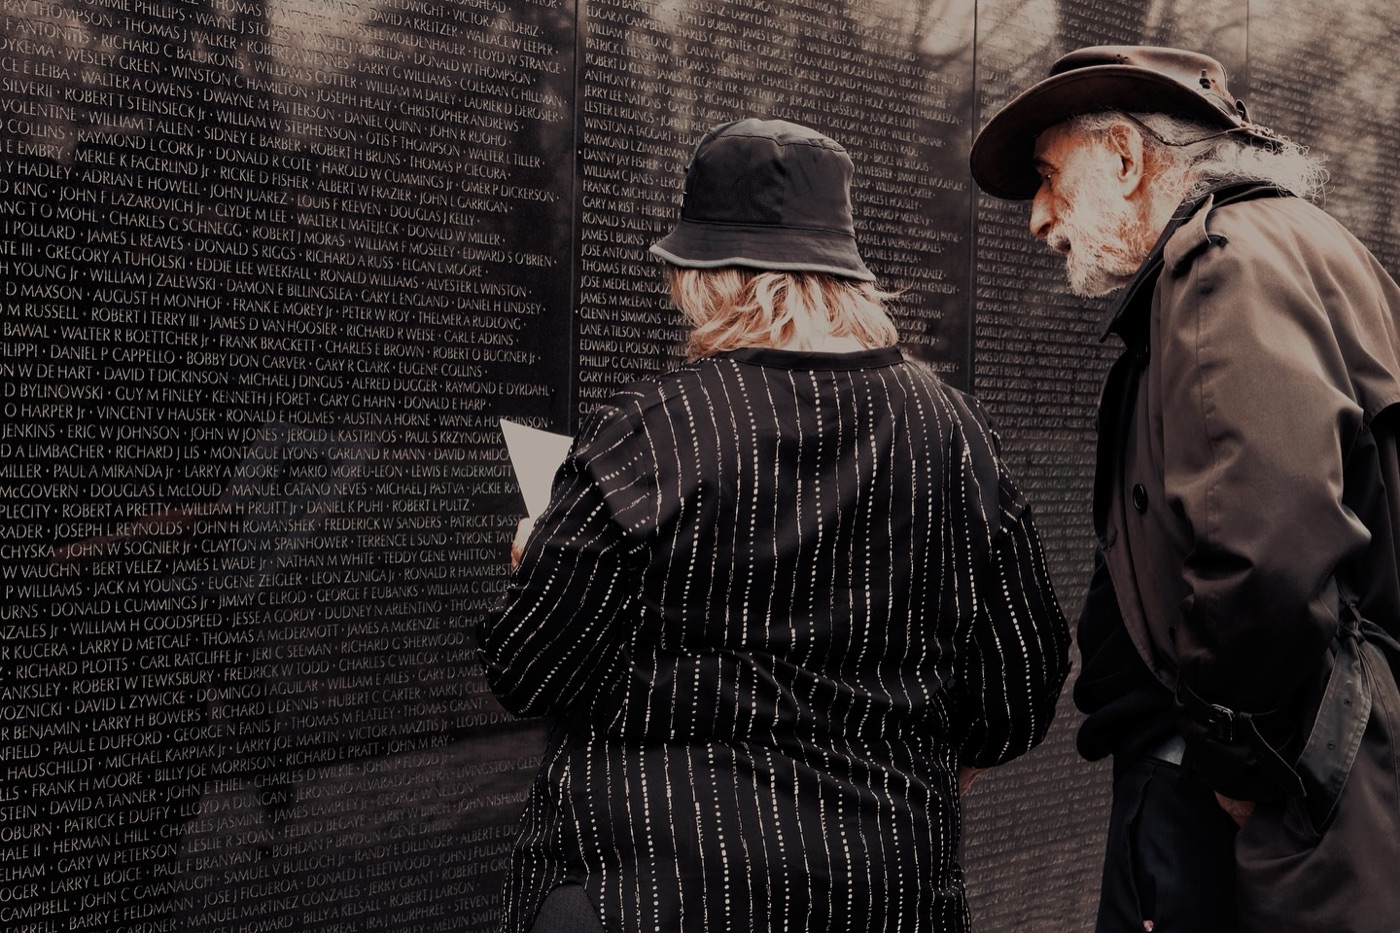
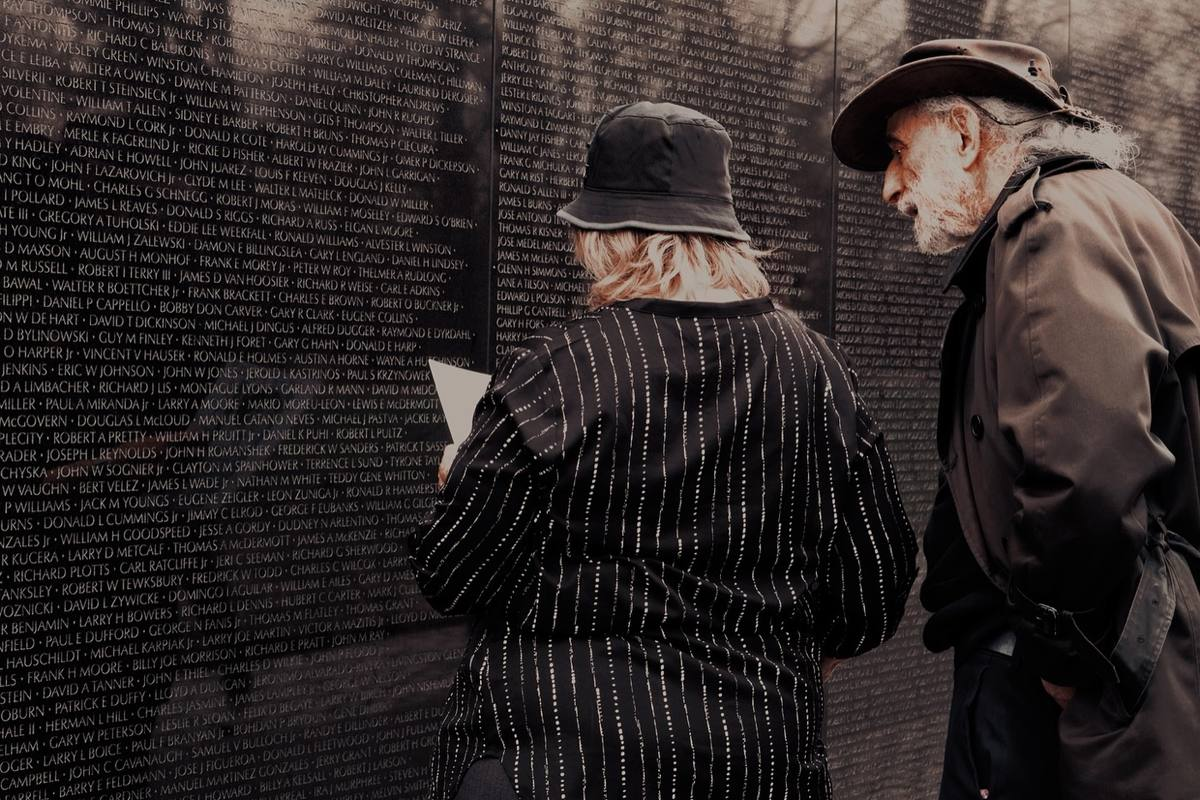
resized the graphics for UX

diff --git a/multimedia.html b/multimedia.html
@@ -8,7 +8,7 @@
   <link rel="preconnect" href="https://fonts.googleapis.com" />
   <link rel="preconnect" href="https://fonts.gstatic.com" crossorigin />
   <link href="https://fonts.googleapis.com/css2?family=Aboreto&family=DM+Sans:wght@400;500;600&display=swap" rel="stylesheet" />
-  <link rel="stylesheet" href="css/style.css?v=44" />
+  <link rel="stylesheet" href="css/style.css?v=46" />
   <link rel="icon" href="assets/Pics/icon.png" type="image/x-icon">
 </head>
 <body>
@@ -39,34 +39,34 @@
         <h2 class="media-heading">Photography</h2>
         <p class="media-sub">A selection of frames from my travels and reporting.</p>
         <div class="photo-grid">
-          <a href="assets/Photos/web/DC-war.jpg" target="_blank" rel="noopener"><img src="assets/Photos/web/DC-war.jpg" alt="Anti-war demonstration, Washington, DC" loading="lazy" /></a>
-          <a href="assets/Photos/web/SouthPhilly-chat.jpg" target="_blank" rel="noopener"><img src="assets/Photos/web/SouthPhilly-chat.jpg" alt="South Philadelphia" loading="lazy" /></a>
-          <a href="assets/Photos/web/SouthPhilly-dog.jpg" target="_blank" rel="noopener"><img src="assets/Photos/web/SouthPhilly-dog.jpg" alt="South Philadelphia" loading="lazy" /></a>
-          <a href="assets/Photos/web/NYC-Pride-GodisGay.jpg" target="_blank" rel="noopener"><img src="assets/Photos/web/NYC-Pride-GodisGay.jpg" alt="NYC Pride" loading="lazy" /></a>
-          <a href="assets/Photos/web/NYC-Pride-girls.jpg" target="_blank" rel="noopener"><img src="assets/Photos/web/NYC-Pride-girls.jpg" alt="NYC Pride" loading="lazy" /></a>
-          <a href="assets/Photos/web/Philly-flag.jpg" target="_blank" rel="noopener"><img src="assets/Photos/web/Philly-flag.jpg" alt="Philadelphia" loading="lazy" /></a>
-          <a href="assets/Photos/web/Philly-manwithflag.jpg" target="_blank" rel="noopener"><img src="assets/Photos/web/Philly-manwithflag.jpg" alt="Philadelphia" loading="lazy" /></a>
-          <a href="assets/Photos/web/SEA-female.jpg" target="_blank" rel="noopener"><img src="assets/Photos/web/SEA-female.jpg" alt="Seattle" loading="lazy" /></a>
-          <a href="assets/Photos/web/Philly-museum.jpg" target="_blank" rel="noopener"><img src="assets/Photos/web/Philly-museum.jpg" alt="Philadelphia Museum of Art" loading="lazy" /></a>
-          <a href="assets/Photos/web/Philly-soccer.jpg" target="_blank" rel="noopener"><img src="assets/Photos/web/Philly-soccer.jpg" alt="Soccer in Philadelphia" loading="lazy" /></a>
-          <a href="assets/Photos/web/NYC-building.jpg" target="_blank" rel="noopener"><img src="assets/Photos/web/NYC-building.jpg" alt="New York City architecture" loading="lazy" /></a>
-          <a href="assets/Photos/web/SouthPhilly-kids.jpg" target="_blank" rel="noopener"><img src="assets/Photos/web/SouthPhilly-kids.jpg" alt="South Philadelphia" loading="lazy" /></a>
-          <a href="assets/Photos/web/SouthPhilly-pumpkin.jpg" target="_blank" rel="noopener"><img src="assets/Photos/web/SouthPhilly-pumpkin.jpg" alt="South Philadelphia" loading="lazy" /></a>
-          <a href="assets/Photos/web/UW-Protest.jpg" target="_blank" rel="noopener"><img src="assets/Photos/web/UW-Protest.jpg" alt="Campus protest, University of Washington" loading="lazy" /></a>
-          <a href="assets/Photos/web/UW-Confront.jpg" target="_blank" rel="noopener"><img src="assets/Photos/web/UW-Confront.jpg" alt="Campus protest, University of Washington" loading="lazy" /></a>
-          <a href="assets/Photos/web/Phiily-trump.jpg" target="_blank" rel="noopener"><img src="assets/Photos/web/Phiily-trump.jpg" alt="Campaign event, Philadelphia" loading="lazy" /></a>
-          <a href="assets/Photos/web/SD-surfing.jpg" target="_blank" rel="noopener"><img src="assets/Photos/web/SD-surfing.jpg" alt="Surfing, San Diego" loading="lazy" /></a>
-          <a href="assets/Photos/web/SD-soccer.jpg" target="_blank" rel="noopener"><img src="assets/Photos/web/SD-soccer.jpg" alt="Soccer, San Diego" loading="lazy" /></a>
-          <a href="assets/Photos/web/SD-birds.jpg" target="_blank" rel="noopener"><img src="assets/Photos/web/SD-birds.jpg" alt="San Diego" loading="lazy" /></a>
-          <a href="assets/Photos/web/SD-kid.jpg" target="_blank" rel="noopener"><img src="assets/Photos/web/SD-kid.jpg" alt="San Diego" loading="lazy" /></a>
-          <a href="assets/Photos/web/SD-music.jpg" target="_blank" rel="noopener"><img src="assets/Photos/web/SD-music.jpg" alt="Live music, San Diego" loading="lazy" /></a>
-          <a href="assets/Photos/web/SD-animal.jpg" target="_blank" rel="noopener"><img src="assets/Photos/web/SD-animal.jpg" alt="San Diego" loading="lazy" /></a>
-          <a href="assets/Photos/web/LA-girl.jpg" target="_blank" rel="noopener"><img src="assets/Photos/web/LA-girl.jpg" alt="Los Angeles" loading="lazy" /></a>
-          <a href="assets/Photos/web/LA-Santa.jpg" target="_blank" rel="noopener"><img src="assets/Photos/web/LA-Santa.jpg" alt="Los Angeles" loading="lazy" /></a>
-          <a href="assets/Photos/web/GMXIAQebwAAqGOW.jpg" target="_blank" rel="noopener"><img src="assets/Photos/web/GMXIAQebwAAqGOW.jpg" alt="Photograph by Levi Jiang" loading="lazy" /></a>
-          <a href="assets/Photos/web/10232024-123-130918.jpg" target="_blank" rel="noopener"><img src="assets/Photos/web/10232024-123-130918.jpg" alt="Photograph by Levi Jiang" loading="lazy" /></a>
-          <a href="assets/Photos/web/2024-05-18-WYC-Spring-SnC-21.jpg" target="_blank" rel="noopener"><img src="assets/Photos/web/2024-05-18-WYC-Spring-SnC-21.jpg" alt="Photograph by Levi Jiang" loading="lazy" /></a>
-          <a href="assets/Photos/web/SEA-Grill.jpg" target="_blank" rel="noopener"><img src="assets/Photos/web/SEA-Grill.jpg" alt="Seattle" loading="lazy" /></a>
+          <a href="assets/Photos/web/DC-war.jpg" target="_blank" rel="noopener"><img src="assets/Photos/web/DC-war.jpg" width="1200" height="800" loading="lazy" decoding="async" alt="Anti-war demonstration, Washington, DC" /></a>
+          <a href="assets/Photos/web/SouthPhilly-chat.jpg" target="_blank" rel="noopener"><img src="assets/Photos/web/SouthPhilly-chat.jpg" width="1200" height="800" loading="lazy" decoding="async" alt="South Philadelphia" /></a>
+          <a href="assets/Photos/web/SouthPhilly-dog.jpg" target="_blank" rel="noopener"><img src="assets/Photos/web/SouthPhilly-dog.jpg" width="800" height="1200" loading="lazy" decoding="async" alt="South Philadelphia" /></a>
+          <a href="assets/Photos/web/NYC-Pride-GodisGay.jpg" target="_blank" rel="noopener"><img src="assets/Photos/web/NYC-Pride-GodisGay.jpg" width="883" height="1200" loading="lazy" decoding="async" alt="NYC Pride" /></a>
+          <a href="assets/Photos/web/NYC-Pride-girls.jpg" target="_blank" rel="noopener"><img src="assets/Photos/web/NYC-Pride-girls.jpg" width="1200" height="800" loading="lazy" decoding="async" alt="NYC Pride" /></a>
+          <a href="assets/Photos/web/Philly-flag.jpg" target="_blank" rel="noopener"><img src="assets/Photos/web/Philly-flag.jpg" width="1200" height="900" loading="lazy" decoding="async" alt="Philadelphia" /></a>
+          <a href="assets/Photos/web/Philly-manwithflag.jpg" target="_blank" rel="noopener"><img src="assets/Photos/web/Philly-manwithflag.jpg" width="1200" height="900" loading="lazy" decoding="async" alt="Philadelphia" /></a>
+          <a href="assets/Photos/web/SEA-female.jpg" target="_blank" rel="noopener"><img src="assets/Photos/web/SEA-female.jpg" width="1200" height="960" loading="lazy" decoding="async" alt="Seattle" /></a>
+          <a href="assets/Photos/web/Philly-museum.jpg" target="_blank" rel="noopener"><img src="assets/Photos/web/Philly-museum.jpg" width="1200" height="900" loading="lazy" decoding="async" alt="Philadelphia Museum of Art" /></a>
+          <a href="assets/Photos/web/Philly-soccer.jpg" target="_blank" rel="noopener"><img src="assets/Photos/web/Philly-soccer.jpg" width="1200" height="800" loading="lazy" decoding="async" alt="Soccer in Philadelphia" /></a>
+          <a href="assets/Photos/web/NYC-building.jpg" target="_blank" rel="noopener"><img src="assets/Photos/web/NYC-building.jpg" width="900" height="1200" loading="lazy" decoding="async" alt="New York City architecture" /></a>
+          <a href="assets/Photos/web/SouthPhilly-kids.jpg" target="_blank" rel="noopener"><img src="assets/Photos/web/SouthPhilly-kids.jpg" width="800" height="1200" loading="lazy" decoding="async" alt="South Philadelphia" /></a>
+          <a href="assets/Photos/web/SouthPhilly-pumpkin.jpg" target="_blank" rel="noopener"><img src="assets/Photos/web/SouthPhilly-pumpkin.jpg" width="1200" height="800" loading="lazy" decoding="async" alt="South Philadelphia" /></a>
+          <a href="assets/Photos/web/UW-Protest.jpg" target="_blank" rel="noopener"><img src="assets/Photos/web/UW-Protest.jpg" width="1200" height="800" loading="lazy" decoding="async" alt="Campus protest, University of Washington" /></a>
+          <a href="assets/Photos/web/UW-Confront.jpg" target="_blank" rel="noopener"><img src="assets/Photos/web/UW-Confront.jpg" width="1200" height="799" loading="lazy" decoding="async" alt="Campus protest, University of Washington" /></a>
+          <a href="assets/Photos/web/Phiily-trump.jpg" target="_blank" rel="noopener"><img src="assets/Photos/web/Phiily-trump.jpg" width="800" height="1200" loading="lazy" decoding="async" alt="Campaign event, Philadelphia" /></a>
+          <a href="assets/Photos/web/SD-surfing.jpg" target="_blank" rel="noopener"><img src="assets/Photos/web/SD-surfing.jpg" width="800" height="1200" loading="lazy" decoding="async" alt="Surfing, San Diego" /></a>
+          <a href="assets/Photos/web/SD-soccer.jpg" target="_blank" rel="noopener"><img src="assets/Photos/web/SD-soccer.jpg" width="800" height="1200" loading="lazy" decoding="async" alt="Soccer, San Diego" /></a>
+          <a href="assets/Photos/web/SD-birds.jpg" target="_blank" rel="noopener"><img src="assets/Photos/web/SD-birds.jpg" width="800" height="1200" loading="lazy" decoding="async" alt="San Diego" /></a>
+          <a href="assets/Photos/web/SD-kid.jpg" target="_blank" rel="noopener"><img src="assets/Photos/web/SD-kid.jpg" width="800" height="1200" loading="lazy" decoding="async" alt="San Diego" /></a>
+          <a href="assets/Photos/web/SD-music.jpg" target="_blank" rel="noopener"><img src="assets/Photos/web/SD-music.jpg" width="800" height="1200" loading="lazy" decoding="async" alt="Live music, San Diego" /></a>
+          <a href="assets/Photos/web/SD-animal.jpg" target="_blank" rel="noopener"><img src="assets/Photos/web/SD-animal.jpg" width="799" height="1200" loading="lazy" decoding="async" alt="San Diego" /></a>
+          <a href="assets/Photos/web/LA-girl.jpg" target="_blank" rel="noopener"><img src="assets/Photos/web/LA-girl.jpg" width="800" height="1200" loading="lazy" decoding="async" alt="Los Angeles" /></a>
+          <a href="assets/Photos/web/LA-Santa.jpg" target="_blank" rel="noopener"><img src="assets/Photos/web/LA-Santa.jpg" width="800" height="1200" loading="lazy" decoding="async" alt="Los Angeles" /></a>
+          <a href="assets/Photos/web/GMXIAQebwAAqGOW.jpg" target="_blank" rel="noopener"><img src="assets/Photos/web/GMXIAQebwAAqGOW.jpg" width="1200" height="800" loading="lazy" decoding="async" alt="Photograph by Levi Jiang" /></a>
+          <a href="assets/Photos/web/10232024-123-130918.jpg" target="_blank" rel="noopener"><img src="assets/Photos/web/10232024-123-130918.jpg" width="1200" height="800" loading="lazy" decoding="async" alt="Photograph by Levi Jiang" /></a>
+          <a href="assets/Photos/web/2024-05-18-WYC-Spring-SnC-21.jpg" target="_blank" rel="noopener"><img src="assets/Photos/web/2024-05-18-WYC-Spring-SnC-21.jpg" width="1200" height="960" loading="lazy" decoding="async" alt="Photograph by Levi Jiang" /></a>
+          <a href="assets/Photos/web/SEA-Grill.jpg" target="_blank" rel="noopener"><img src="assets/Photos/web/SEA-Grill.jpg" width="1200" height="800" loading="lazy" decoding="async" alt="Seattle" /></a>
         </div>
       </div>
     </section>
@@ -77,20 +77,20 @@
         <h2 class="media-heading">Graphics</h2>
         <p class="media-sub">Collage, illustration and infographics.</p>
         <div class="gfx-grid">
-          <a href="assets/Graphics/NJElection.png" target="_blank" rel="noopener"><img src="assets/Graphics/NJElection.png" alt="New Jersey election graphics" /></a>
-          <a href="assets/Graphics/SeattleCrimeMap.png" target="_blank" rel="noopener"><img src="assets/Graphics/SeattleCrimeMap.png" alt="Map of crime across Seattle" /></a>
-          <a href="assets/Graphics/Illo-melons.png" target="_blank" rel="noopener"><img src="assets/Graphics/Illo-melons.png" alt="Melons illustration" /></a>
-          <a href="assets/Graphics/PostCovidEconomy.png" target="_blank" rel="noopener"><img src="assets/Graphics/PostCovidEconomy.png" alt="The post-COVID economy" /></a>
-          <a href="assets/Graphics/SEAvsNY%20Rain.png" target="_blank" rel="noopener"><img src="assets/Graphics/SEAvsNY%20Rain.png" alt="Rainfall compared: Seattle vs. New York" /></a>
-          <a href="assets/Graphics/DayLength.png" target="_blank" rel="noopener"><img src="assets/Graphics/DayLength.png" alt="Day length through the year" /></a>
-          <a href="assets/Graphics/Illo-watermelon.png" target="_blank" rel="noopener"><img src="assets/Graphics/Illo-watermelon.png" alt="Watermelon illustration" /></a>
-          <a href="assets/Graphics/housework-mom.jpg" target="_blank" rel="noopener"><img src="assets/Graphics/housework-mom.jpg" alt="Housework is Valuable - Mom" /></a>
-          <a href="assets/Graphics/Housework.png" target="_blank" rel="noopener"><img src="assets/Graphics/Housework.png" alt="Housework is Valuable graphic" /></a>         
-          <a href="assets/Graphics/CQ.jpg" target="_blank" rel="noopener"><img src="assets/Graphics/CQ.jpg" alt="Citywide Quest graphic" /></a>          
-          <a href="assets/Graphics/Chart-bar.png" target="_blank" rel="noopener"><img src="assets/Graphics/Chart-bar.png" alt="Bar chart" /></a>
-          <a href="assets/Graphics/17vs23Husky.png" target="_blank" rel="noopener"><img src="assets/Graphics/17vs23Husky.png" alt="UW Huskies: 2017 vs. 2023" /></a>
-          <a href="assets/Graphics/17vs23Points.png" target="_blank" rel="noopener"><img src="assets/Graphics/17vs23Points.png" alt="UW Huskies points scored, 2017 vs. 2023" /></a>
-          <a href="assets/Graphics/Chart-amount.png" target="_blank" rel="noopener"><img src="assets/Graphics/Chart-amount.png" alt="Amounts chart" /></a>
+          <a href="assets/Graphics/web/NJElection.png" target="_blank" rel="noopener"><img src="assets/Graphics/web/NJElection.png" width="1284" height="1270" loading="lazy" decoding="async" alt="New Jersey election graphics" /></a>
+          <a href="assets/Graphics/web/SeattleCrimeMap.png" target="_blank" rel="noopener"><img src="assets/Graphics/web/SeattleCrimeMap.png" width="558" height="687" loading="lazy" decoding="async" alt="Map of crime across Seattle" /></a>
+          <a href="assets/Graphics/web/Illo-melons.png" target="_blank" rel="noopener"><img src="assets/Graphics/web/Illo-melons.png" width="900" height="1124" loading="lazy" decoding="async" alt="Melons illustration" /></a>
+          <a href="assets/Graphics/web/PostCovidEconomy.jpg" target="_blank" rel="noopener"><img src="assets/Graphics/web/PostCovidEconomy.jpg" width="1507" height="820" loading="lazy" decoding="async" alt="The post-COVID economy" /></a>
+          <a href="assets/Graphics/web/SEAvsNY%20Rain.jpg" target="_blank" rel="noopener"><img src="assets/Graphics/web/SEAvsNY%20Rain.jpg" width="1636" height="925" loading="lazy" decoding="async" alt="Rainfall compared: Seattle vs. New York" /></a>
+          <a href="assets/Graphics/web/DayLength.jpg" target="_blank" rel="noopener"><img src="assets/Graphics/web/DayLength.jpg" width="1414" height="903" loading="lazy" decoding="async" alt="Day length through the year" /></a>
+          <a href="assets/Graphics/web/Illo-watermelon.png" target="_blank" rel="noopener"><img src="assets/Graphics/web/Illo-watermelon.png" width="900" height="1236" loading="lazy" decoding="async" alt="Watermelon illustration" /></a>
+          <a href="assets/Graphics/web/housework-mom.jpg" target="_blank" rel="noopener"><img src="assets/Graphics/web/housework-mom.jpg" width="900" height="600" loading="lazy" decoding="async" alt="Housework is Valuable - Mom" /></a>
+          <a href="assets/Graphics/web/Housework.png" target="_blank" rel="noopener"><img src="assets/Graphics/web/Housework.png" width="1378" height="1086" loading="lazy" decoding="async" alt="Housework is Valuable graphic" /></a>         
+          <a href="assets/Graphics/web/CQ.jpg" target="_blank" rel="noopener"><img src="assets/Graphics/web/CQ.jpg" width="1800" height="1200" loading="lazy" decoding="async" alt="Citywide Quest graphic" /></a>          
+          <a href="assets/Graphics/web/Chart-bar.png" target="_blank" rel="noopener"><img src="assets/Graphics/web/Chart-bar.png" width="904" height="1048" loading="lazy" decoding="async" alt="Bar chart" /></a>
+          <a href="assets/Graphics/web/17vs23Husky.png" target="_blank" rel="noopener"><img src="assets/Graphics/web/17vs23Husky.png" width="969" height="494" loading="lazy" decoding="async" alt="UW Huskies: 2017 vs. 2023" /></a>
+          <a href="assets/Graphics/web/17vs23Points.png" target="_blank" rel="noopener"><img src="assets/Graphics/web/17vs23Points.png" width="1245" height="781" loading="lazy" decoding="async" alt="UW Huskies points scored, 2017 vs. 2023" /></a>
+          <a href="assets/Graphics/web/Chart-amount.png" target="_blank" rel="noopener"><img src="assets/Graphics/web/Chart-amount.png" width="670" height="1352" loading="lazy" decoding="async" alt="Amounts chart" /></a>
         </div>
       </div>
     </section>

diff --git a/css/style.css b/css/style.css
@@ -242,12 +242,12 @@ h1, h2, h3 { font-weight: 400; line-height: 1.05; }
 
 /* Photography — masonry columns */
 .photo-grid { columns: 4 200px; column-gap: 14px; }
-.photo-grid > * { width: 100%; margin: 0 0 16px; border-radius: 3px; break-inside: avoid; display: block; overflow: hidden; }
-.photo-grid img { width: 100%; display: block; }
+.photo-grid > * { width: 100%; margin: 0 0 16px; border-radius: 3px; break-inside: avoid; display: block; overflow: hidden; background: var(--bg-soft); }
+.photo-grid img { width: 100%; height: auto; display: block; }
 
 /* Graphics — masonry (charts/maps shown in full, never cropped) */
 .gfx-grid { columns: 4; column-gap: 14px; }
-.gfx-grid > * { display: block; break-inside: avoid; margin: 0 0 14px; overflow: hidden; border-radius: 3px; border: 1px solid var(--line); }
+.gfx-grid > * { display: block; break-inside: avoid; margin: 0 0 14px; overflow: hidden; border-radius: 3px; border: 1px solid var(--line); background: var(--bg-soft); }
 .gfx-grid img { width: 100%; height: auto; display: block; }
 @media (max-width: 1000px) { .gfx-grid { columns: 3; } }
 @media (max-width: 720px) { .gfx-grid { columns: 2; } }

diff --git a/data-journalism.html b/data-journalism.html
@@ -8,7 +8,7 @@
   <link rel="preconnect" href="https://fonts.googleapis.com" />
   <link rel="preconnect" href="https://fonts.gstatic.com" crossorigin />
   <link href="https://fonts.googleapis.com/css2?family=Aboreto&family=DM+Sans:wght@400;500;600&display=swap" rel="stylesheet" />
-  <link rel="stylesheet" href="css/style.css?v=44" />
+  <link rel="stylesheet" href="css/style.css?v=46" />
   <link rel="icon" href="assets/Pics/icon.png" type="image/x-icon">
 </head>
 <body>

diff --git a/design-development.html b/design-development.html
@@ -8,7 +8,7 @@
   <link rel="preconnect" href="https://fonts.googleapis.com" />
   <link rel="preconnect" href="https://fonts.gstatic.com" crossorigin />
   <link href="https://fonts.googleapis.com/css2?family=Aboreto&family=DM+Sans:wght@400;500;600&display=swap" rel="stylesheet" />
-  <link rel="stylesheet" href="css/style.css?v=44" />
+  <link rel="stylesheet" href="css/style.css?v=46" />
   <link rel="icon" href="assets/Pics/icon.png" type="image/x-icon">
 </head>
 <body>

diff --git a/index.html b/index.html
@@ -9,7 +9,7 @@
   <link rel="preconnect" href="https://fonts.googleapis.com" />
   <link rel="preconnect" href="https://fonts.gstatic.com" crossorigin />
   <link href="https://fonts.googleapis.com/css2?family=Aboreto&family=DM+Sans:wght@400;500;600&display=swap" rel="stylesheet" />
-  <link rel="stylesheet" href="css/style.css?v=44" />
+  <link rel="stylesheet" href="css/style.css?v=46" />
   <link rel="icon" href="assets/Pics/icon.png" type="image/x-icon">
 </head>
 <body>
